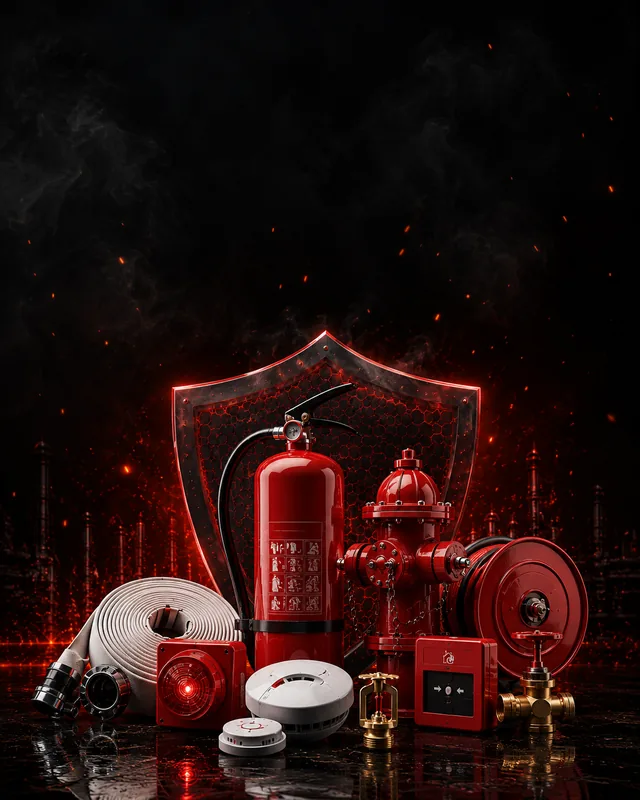
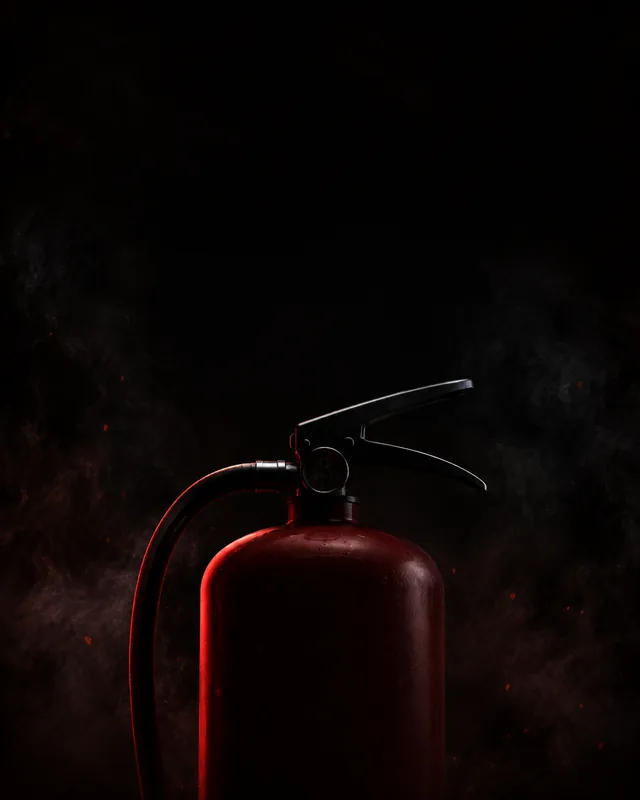
Swap in the simplified hero scenes and refit the type to them
The client preferred a reference site with a much quieter hero — one
extinguisher, deep shadow, smoke — over the equipment cluster we had. Both
renders regenerated to match and dropped in at the same dimensions
(2048x768 and 1122x1402), so every ratio and breakpoint rule still applies.

The composition moved, though, so the type had to be refitted rather than
just re-pointed. Measured the renders per band instead of eyeballing them:

  LANDSCAPE  x 0-768    p95 19-36   dark, safe
             x 768-1280 p95 73      extinguisher
  PORTRAIT   y 0-43%    p95 5-11    dark, safe
             y 43%+     p95 35-78   extinguisher

The old layout used 44% of the width on desktop and 53% of the height on
mobile — both would have run straight into the subject. The copy column is
now 35% wide and the mobile block ends at 42%, verified at every breakpoint:
33-34% across on tablet/laptop/desktop, 42% down on mobile.

The scrim is lighter than before because these renders are already close to
black at the edges; it now only guards the copy rather than darkening the
whole frame.

Verified: 919/919 routes, 32/32 route x breakpoint QA, 18/18 interaction
checks, zero lint and type errors.

diff --git a/src/components/HeroBanner.tsx b/src/components/HeroBanner.tsx
@@ -93,14 +93,14 @@ export function HeroBanner() {
             Vertical on phones, horizontal on desktop — matching where the
             empty space actually is. */}
         <div
-          className="absolute inset-0 bg-gradient-to-b from-[rgb(8_5_5/0.85)] via-[rgb(8_5_5/0.4)] to-transparent md:bg-gradient-to-r md:from-[rgb(8_5_5/0.9)] md:via-[rgb(8_5_5/0.5)] md:to-transparent"
+          className="absolute inset-0 bg-gradient-to-b from-[rgb(6_4_4/0.8)] via-[rgb(6_4_4/0.3)] to-transparent md:bg-gradient-to-r md:from-[rgb(6_4_4/0.85)] md:via-[rgb(6_4_4/0.35)] md:to-transparent"
           aria-hidden="true"
         />
 
         {/* --- Type, composed into the reserved zone ---------------------- */}
         <div className="absolute inset-0">
-          <div className="container-page flex h-full flex-col justify-start pt-[5cqh] md:justify-center md:pt-0">
-            <div className="w-full md:max-w-[44%]">
+          <div className="container-page flex h-full flex-col justify-start pt-[4cqh] md:justify-center md:pt-0">
+            <div className="w-full md:max-w-[35%]">
               {/* The wordmark is genuinely graphical — custom lettering, swoosh
                   and mascot — so it stays an image. Transparency is baked into
                   the PNG at build time (luminance -> alpha) rather than done
@@ -119,12 +119,12 @@ export function HeroBanner() {
                 loading="eager"
                 decoding="sync"
                 fetchPriority="high"
-                className="hero-fade block h-[15cqh] w-auto md:h-[26cqh]"
+                className="hero-fade block h-[11.5cqh] w-auto md:h-[24cqh]"
                 style={{ ["--hd" as string]: "0ms" }}
               />
 
               <h2
-                className="hero-fade mt-[2cqh] font-display text-[5.9cqh] font-bold uppercase leading-[1.02] tracking-[-0.01em] text-white md:mt-[3cqh] md:text-[12cqh]"
+                className="hero-fade mt-[1.6cqh] font-display text-[4.6cqh] font-bold uppercase leading-[1.02] tracking-[-0.01em] text-white md:mt-[3cqh] md:text-[11cqh]"
                 style={{ ["--hd" as string]: "120ms" }}
               >
                 Protecting
@@ -138,7 +138,7 @@ export function HeroBanner() {
                   In the original artwork they were baked in at a size that
                   became unreadable once the image scaled down. */}
               <ul
-                className="hero-fade mt-[2.4cqh] grid max-w-[92%] grid-cols-4 gap-[2%] md:mt-[4cqh]"
+                className="hero-fade mt-[2cqh] grid max-w-[92%] grid-cols-4 gap-[2%] md:mt-[4cqh]"
                 style={{ ["--hd" as string]: "260ms" }}
               >
                 {FEATURES.map((feature) => (
@@ -146,10 +146,10 @@ export function HeroBanner() {
                     key={feature.label.join(" ")}
                     className="flex flex-col items-center text-center"
                   >
-                    <span className="flex items-center justify-center rounded-full border border-brand-600/70 bg-[rgb(8_5_5/0.55)] p-[1.4cqh] shadow-[0_0_14px_-2px_rgb(220_31_31/0.65)] md:p-[2cqh]">
+                    <span className="flex items-center justify-center rounded-full border border-brand-600/70 bg-[rgb(8_5_5/0.55)] p-[1.1cqh] shadow-[0_0_14px_-2px_rgb(220_31_31/0.65)] md:p-[2cqh]">
                       <svg
                         viewBox="0 0 24 24"
-                        className="h-[2.6cqh] w-[2.6cqh] text-brand-500 md:h-[4cqh] md:w-[4cqh]"
+                        className="h-[2.1cqh] w-[2.1cqh] text-brand-500 md:h-[4cqh] md:w-[4cqh]"
                         fill="none"
                         stroke="currentColor"
                         strokeWidth={1.8}
@@ -161,7 +161,7 @@ export function HeroBanner() {
                       </svg>
                     </span>
 
-                    <span className="mt-[1cqh] font-display text-[1.7cqh] font-semibold uppercase leading-[1.2] tracking-[0.05em] text-white drop-shadow-[0_1px_6px_rgb(0_0_0/0.9)] md:text-[2.4cqh]">
+                    <span className="mt-[1cqh] font-display text-[1.35cqh] font-semibold uppercase leading-[1.2] tracking-[0.05em] text-white drop-shadow-[0_1px_6px_rgb(0_0_0/0.9)] md:text-[2.4cqh]">
                       {feature.label[0]}
                       <br />
                       {feature.label[1]}
